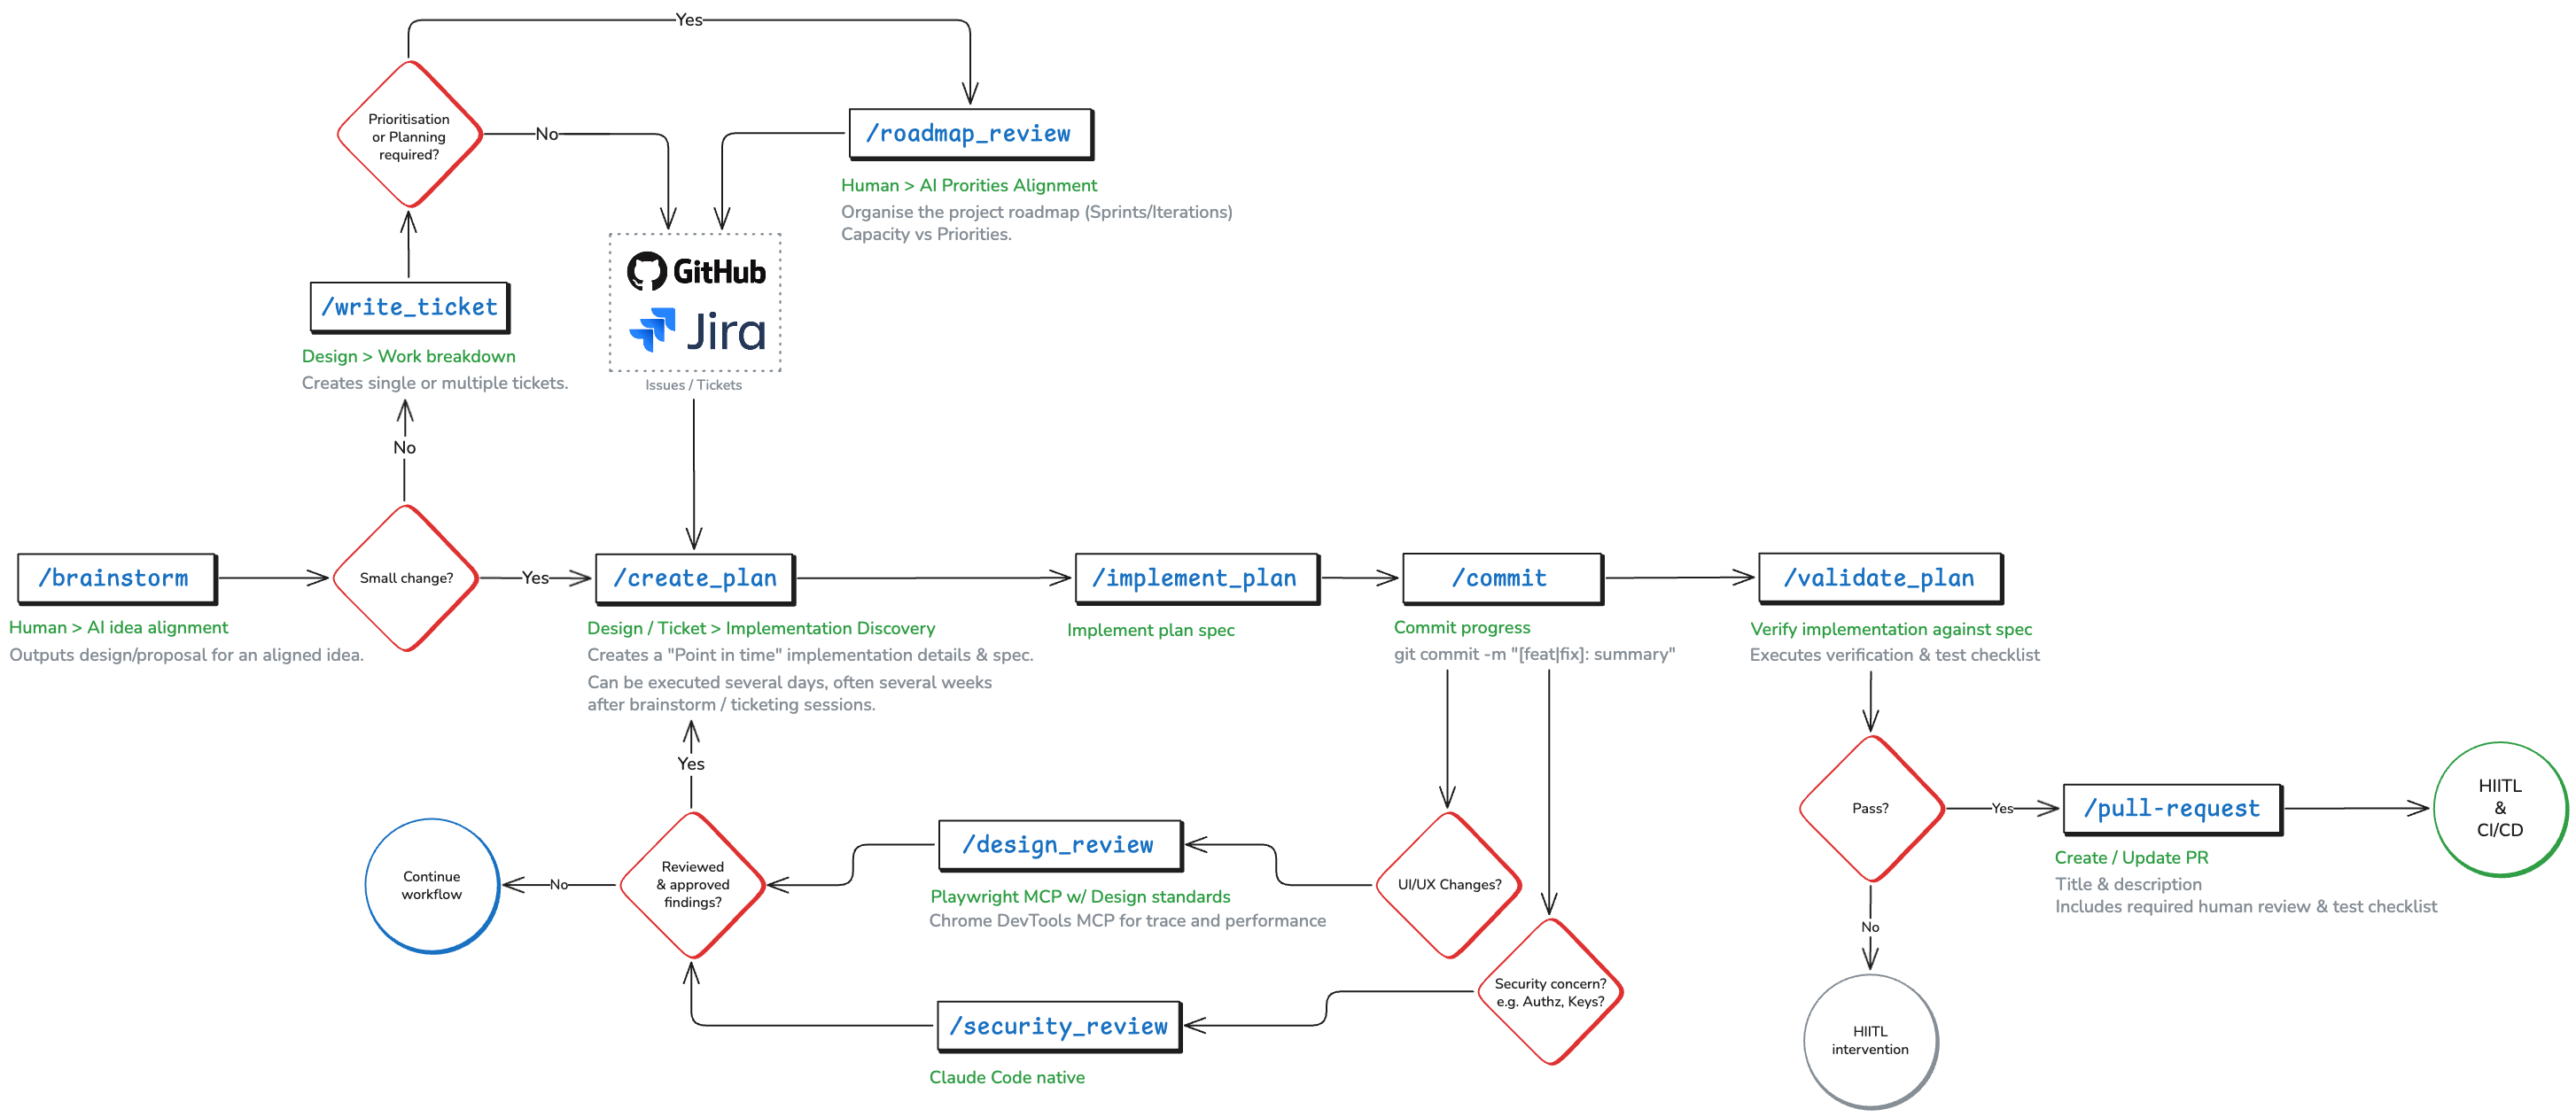
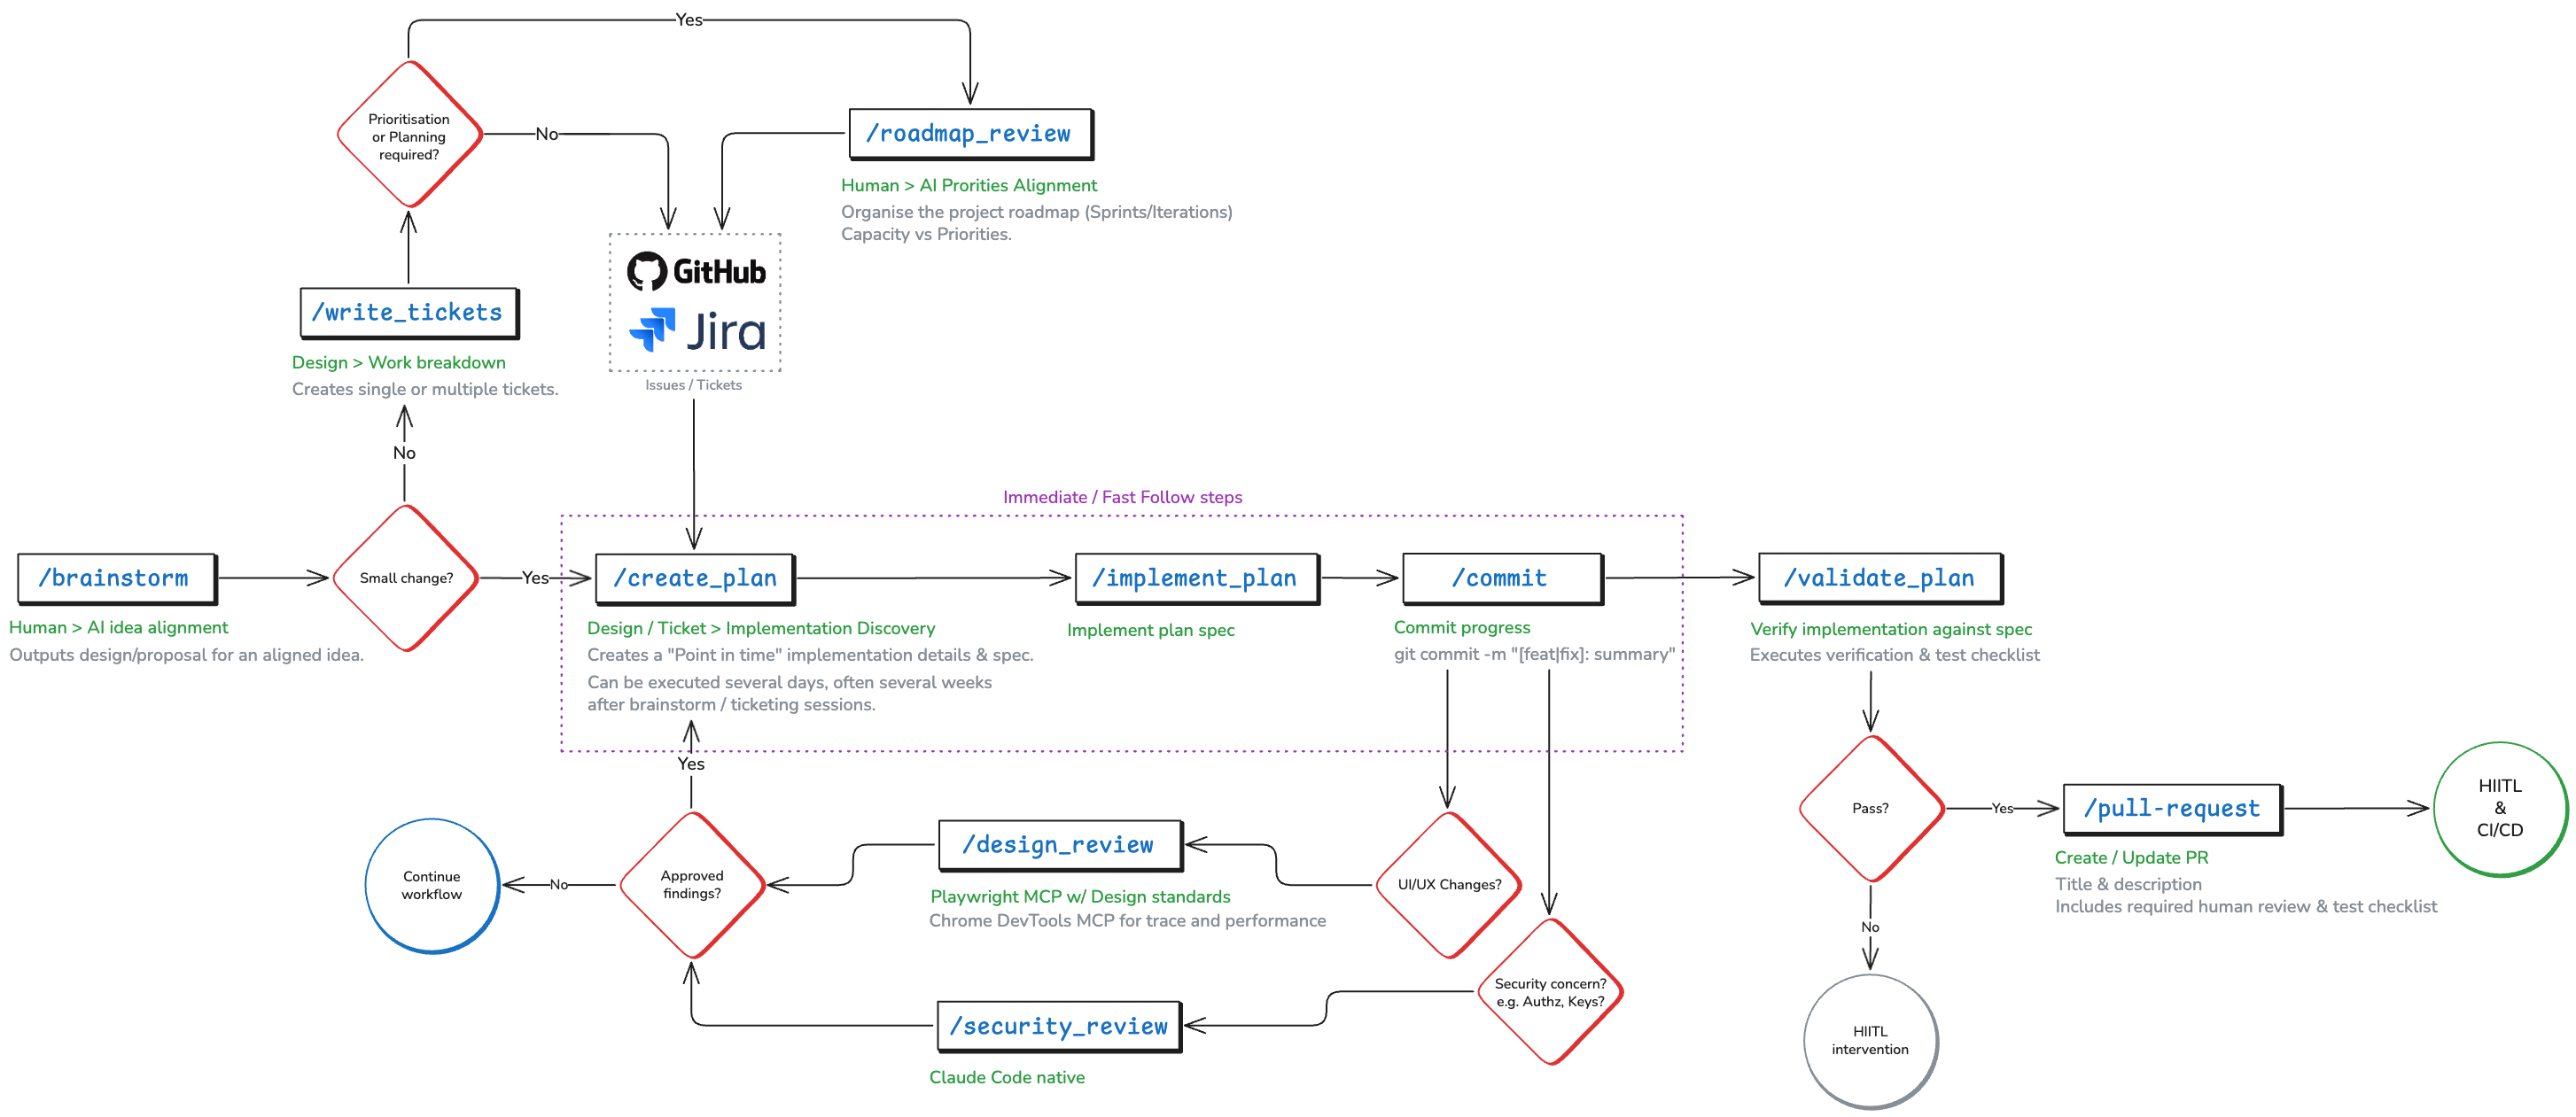
fix(auth): raise OTP IP backstop 10 → 50 / 15 min (#280)
* chore: rename write_ticket command to write_tickets

* docs: update skill references to write_tickets

* docs: clarify harness customization guidance in caution panel

* fix(auth): raise OTP IP backstop 10 → 50 / 15 min for canary spec + shared-IP users

The otp-rate-limit.spec.ts canary makes ~13 real POST /email-otp/send-verification-otp
calls from a single CI-runner IP in serial mode. The IP limiter backstop at 10 / 15 min
tripped part-way through, causing fresh emails to get 429 from the IP key — see post-deploy
run 26272636618.

Raising the IP backstop to 50 / 15 min (~3.3 sends/min) accommodates the canary while
keeping meaningful production protection against loop-style abuse. The email-keyed primary
limiter (3 / 15 min) is unchanged — the threat model is unaffected.

Also improves production handling for shared-IP users (corporate NAT, CGNAT, family Wi-Fi).

Fixes post-deploy run 26272636618.

* fix(ci): route preview E2E at branch URL so Origin matches BETTER_AUTH_URL

The post-deploy workflow was passing client_payload.url (the unique per-deploy
Vercel URL) to Playwright as VERCEL_URL, while BETTER_AUTH_URL on the deployed
runtime is derived from VERCEL_BRANCH_URL (src/env.js:14-22). When the browser
submitted the OTP form, the Origin header didn't match better-auth's baseURL
and originCheckMiddleware returned 403 "Invalid origin" — surfacing in
otp-rate-limit.spec.ts case 3 as the wrong error message in the login UI.
[…]

Changed region(s): [[0.0929, 0.2474, 0.2167, 0.3711], [0.4025, 0.433, 0.4954, 0.4639], [0.2477, 0.7732, 0.2786, 0.8041]]

diff --git a/e2e/utils/nurture-helper.ts b/e2e/utils/nurture-helper.ts
@@ -4,6 +4,8 @@ import { type APIRequestContext, request } from "@playwright/test";
 
 import "dotenv/config";
 
+import { TEST_FIRST_NAMES } from "./hubspot-helper";
+
 let _sql: NeonQueryFunction<false, false> | undefined;
 function sql() {
   _sql ??= neon(process.env.DATABASE_URL!);
@@ -102,6 +104,29 @@ export async function waitForPendingMessage(
 export async function cleanupSequences(ids: string[]): Promise<void> {
   if (ids.length === 0) return;
   await sql()`DELETE FROM "nurture_sequences" WHERE id = ANY(${ids}::uuid[])`;
+}
+
+/**
+ * Removes active sequences the cron would pick up on its next tick, scoped to
+ * test-created rows only (lead first_name in TEST_FIRST_NAMES OR email matches
+ * [email redacted]). Mirrors the marker pattern in
+ * auth-helper.deleteTestLeads so production rows are never in scope — safe to
+ * run against the production DB in post-deploy E2E without an env guard.
+ *
+ * Safe alongside the auto-starts test: its seeded sequence is dated 3 days in
+ * the future and won't match next_step_at <= NOW().
+ */
+export async function cleanupDueActiveSequences(): Promise<void> {
+  await sql()`
+    DELETE FROM "nurture_sequences"
+    WHERE status = 'active'
+      AND next_step_at <= NOW()
+      AND lead_id IN (
+        SELECT id FROM "leads"
+        WHERE first_name = ANY(${TEST_FIRST_NAMES})
+           OR email LIKE '[email redacted]'
+      )
+  `;
 }
 
 export async function cronRequestContext(

diff --git a/e2e/features/nurture-scheduler.spec.ts b/e2e/features/nurture-scheduler.spec.ts
@@ -14,6 +14,7 @@ import {
   seedLead,
 } from "../utils/messages-helper";
 import {
+  cleanupDueActiveSequences,
   cleanupSequences,
   cronRequestContext,
   getActiveSequenceByLead,
@@ -97,6 +98,15 @@ test.describe("Nurture scheduler", () => {
 
     let seededLeadId: string;
     let draftedMessageId: string;
+
+    // The Neon preview branch is reused across runs; a prior aborted run can
+    // leave an active+due sequence behind that the cron will also draft,
+    // breaking the strict `drafted: 1` assertion below. Wipe due sequences
+    // here so only the freshly-seeded one is in scope. Safe vs the parallel
+    // "auto-starts" test (its sequence is dated 3 days out).
+    test.beforeAll(async () => {
+      await cleanupDueActiveSequences();
+    });
 
     test("cron drafts a pending message", async ({ baseURL }) => {
       const lead = await seedLead({

diff --git a/e2e/utils/cleanup-whitelist.test.ts b/e2e/utils/cleanup-whitelist.test.ts
@@ -43,6 +43,11 @@ describe("cleanup-whitelist", () => {
     );
   });
 
+  it("nurture-helper references TEST_FIRST_NAMES instead of an unscoped delete", () => {
+    const src = readFileSync(join(utilsDir, "nurture-helper.ts"), "utf-8");
+    expect(src).toContain("TEST_FIRST_NAMES");
+  });
+
   it("covers every firstName used in spec files (or has an explicit exemption)", () => {
     // Firstnames covered by phone-based cleanup (cleanupTestLeadsByPhone) or
     // seedLead (bypasses HubSpot sync), or that never reach the DB.

diff --git a/src/lib/rate-limit.ts b/src/lib/rate-limit.ts
@@ -4,7 +4,7 @@ import { Redis } from "@upstash/redis";
 import { env } from "~/env";
 
 const OTP_SEND_EMAIL_MAX = 3;
-const OTP_SEND_IP_MAX = 10;
+const OTP_SEND_IP_MAX = 50;
 const OTP_SEND_WINDOW: Duration = "15 m";
 
 const redis = new Redis({

diff --git a/src/lib/auth.ts b/src/lib/auth.ts
@@ -17,7 +17,6 @@ import * as authSchema from "~/server/db/schema/auth";
 const resend = new Resend(env.RESEND_API_KEY);
 
 export const auth = betterAuth({
-  // trustedOrigins: [env.BETTER_AUTH_URL],
   baseURL: env.BETTER_AUTH_URL,
   database: drizzleAdapter(db, {
     provider: "pg",

diff --git a/docs/adr/adr015-upstash-rate-limit-for-otp-send.md b/docs/adr/adr015-upstash-rate-limit-for-otp-send.md
@@ -76,7 +76,7 @@ matched to `ctx.path === "/email-otp/send-verification-otp"`.
 - **Two fixed-window limiters**, checked before the email dispatches:
   **email** (normalized `trim().toLowerCase()`) at **3 / 15 min** (primary —
   the threat model); **client IP** (`x-forwarded-for` first hop) at
-  **10 / 15 min** (backstop). `ephemeralCache` enabled. Limits are named
+  **50 / 15 min** (backstop). `ephemeralCache` enabled. Limits are named
   constants in one module.
 - **Over limit → HTTP 429** with body `{ error: { message } }` (matches the
   existing `/login` error path + `e2e/utils/auth-mock.ts` contract) and a
@@ -136,3 +136,23 @@ overage), and cannot key on email below Enterprise. **Option 3 (better-auth +
 Upstash store)** inherits IP-only keying (defeats the threat model), a
 secondary-storage TTL/memory footgun, and open bug #1891. **Option 4
 (Neon-backed)** is excluded by the no-Neon constraint.
+
+## Revisions
+
+### 2026-05-25 — IP backstop raised 10 → 50 / 15 min
+
+`OTP_SEND_IP_MAX` in `src/lib/rate-limit.ts` raised from **10** to **50** per
+15-min window. The email-keyed primary limiter (`OTP_SEND_EMAIL_MAX = 3`) is
+unchanged — the threat model is unaffected.
+
+Why: the `otp-rate-limit.spec.ts` canary issues ~13 real
+`POST /email-otp/send-verification-otp` calls from a single CI-runner IP
+within ~10 seconds (each case uses a unique email, but the IP key is shared).
+At 10 / 15 min the backstop trips part-way through the spec — see post-deploy
+run [26272636618](https://github.com/samjmarshall/www/actions/runs/26272636618/job/77329542386)
+where `case 4 s1` and `case 1` retries got 429 from the IP key while their
+fresh email keys were still empty. The same shared-IP pattern is also a real
+production case (corporate NAT, mobile carrier CGNAT, family/office Wi-Fi).
+50 / 15 min ≈ 3.3 sends/min from one IP is still a meaningful backstop against
+loop-style abuse while removing the canary-trip and the shared-IP false
+positive.

diff --git a/docs/README.md b/docs/README.md
@@ -2,17 +2,22 @@
 
 > A Claude Code harness example for Real Engineers with a Real Project
 
-Hi, I'm Sam and this is an AI sales assistant I built for my wife. She's a Sales Consultant for a new home builder in Brisbane, Australia.
+Hi, I'm Sam and this is an AI sales assistant I built for my wife, a Sales Consultant for a new home builder in Brisbane, Australia.
 
-The purpose of this project is to showcase the workflow and results of my personal AI enabled Software/Product Development Life Cycle (SDLC / PDLC); as Matt Pocock would say "Skills for Real Engineers". To do this properly, I chose to solve a real-world problem with real commercial need. Also, my wife has been asking for something this this for a long time... so win-win right? happy wife, happy life.
+The purpose of this project is to showcase the workflow and results of my personal AI enabled Software/Product Development Life Cycle (SDLC / PDLC); as Matt Pocock would say "Skills for Real Engineers". To do this properly, I chose to solve a real-world problem with a real commercial need.
 
-This is my sandbox project; where I get to test, tweak and tune my AI Agent coding harness, and try new technologies, which I often use in my professional life. However, in this case, I get to make it work exactly how I prefer to build and operate.
+This is my sandbox project; where I get to test, tweak and tune my AI Agent coding harness, and try new technologies. Learnings that transfer to my career/professional life once proven.
 
-If you're interested in seeing how I use Claude Code, see the `CLAUDE.md` and `.claude/` config folder. Try it out for yourself. More details on how it all works are roughly documented in the [Claude Code Harness Overview](#claude-code-harness-overview) section below.
+If you're interested in seeing how I use Claude Code for this project, see the `CLAUDE.md` and `.claude/` config folder. Try it out for yourself. More details on how it all works are roughly documented in the [Claude Code Harness Overview](#claude-code-harness-overview) section below.
 
 If you would like help with building, implementing or simply discovering problems/solutions for AI to solve in your Enterprise, reach out to me on [Linkedin](https://www.linkedin.com/in/sam-j-marshall/) or get in touch with the [V2 AI](https://www.v2.ai/contact?utm_source=github&utm_medium=referral&utm_campaign=rekurve&utm_content=readme-contact-cta) team.
 
 ## Claude Code Harness Overview
+
+> [!CAUTION]
+> The ***BIGBEST*** mistake I see individuals and teams make is copy/pasting someone elses Harness. *Do not do this* unless you're happy with someone elses process & results, assuming they also have a similar tech stack.
+> This Claude Code harness & workflow is an example, a rough template you can test, pick and chose from. It is not something I think you should simply copy/paste without modifying for yourself and your specific project context.
+> I'm sure you can still get good results from copy/pasting this exact Harness. I'm simply highlighting my recommendation to study it instead. Test it and apply what is relevant to you. Building up a Harness molded to you and your specific use cases, not the other way around.
 
 ### Workflow
 
@@ -27,7 +32,7 @@ These commands are invoked inside [Claude Code](https://claude.ai/code) via slas
 | Command | What it does | When to use |
 |---------|-------------|-------------|
 | `/brainstorm` | Socratic exploration of rough ideas into a design doc | Before writing code — refine what you're building |
-| `/write_ticket` | Collaborative ticket writing | Creating GitHub issues with clear scope |
+| `/write_tickets` | Collaborative ticket writing | Creating GitHub issues with clear scope |
 | `/review_roadmap` | GitHub Project prioritization review | Re-assessing milestone priorities |
 | `/create_plan` | Research-heavy plan creation → `thoughts/plans/`. Applies `frontend-design` skill for UI work | Starting a new feature or significant change |
 | `/iterate_plan` | Update existing plan with new feedback | Plan needs revision after code review or discovery |
@@ -85,9 +90,9 @@ Ralph auto-detects a sibling `.spec.json` when given a `.md` path. You can also 
 
 **When to use Ralph vs interactive `/implement_plan`:**
 - Use **Ralph** for well-defined plans where you want hands-off execution (e.g., overnight runs, large multi-section plans)
-  - Typically for tickets flagged as **AFK** by `/write_ticket`.
+  - Typically for tickets flagged as **AFK** by `/write_tickets`.
 - Use **`/implement_plan`** when you want to stay in the loop, review changes as they happen, or the plan requires judgment calls
-  - For tickets flagged as **HIITL** by `/write_ticket`.
+  - For tickets flagged as **HIITL** by `/write_tickets`.
 
 ### Prerequisites by Task Type
 

diff --git a/.claude/commands/brainstorm.md b/.claude/commands/brainstorm.md
@@ -52,7 +52,7 @@ Interview me relentlessly about every aspect of this design until we reach a sha
 - Edit any existing source files
 - Proceed to implementation planning
 
-The user will use either `/write_ticket` separately to create tickets for more complex designs or `/create_plan` to immediately create an implementation plan for simple designs.
+The user will use either `/write_tickets` separately to create tickets for more complex designs or `/create_plan` to immediately create an implementation plan for simple designs.
 
 ## Key Principles
 